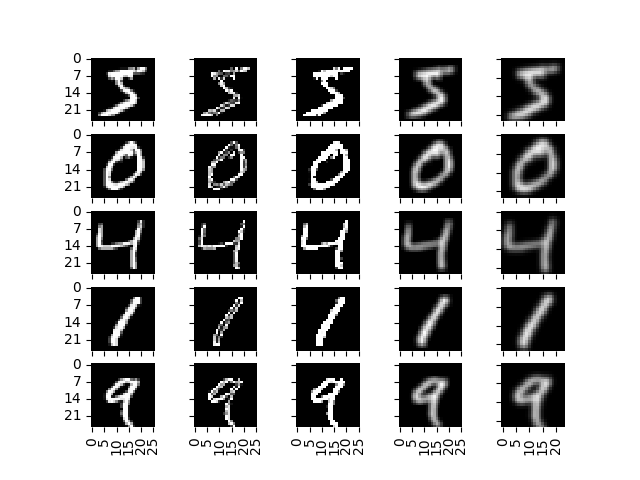
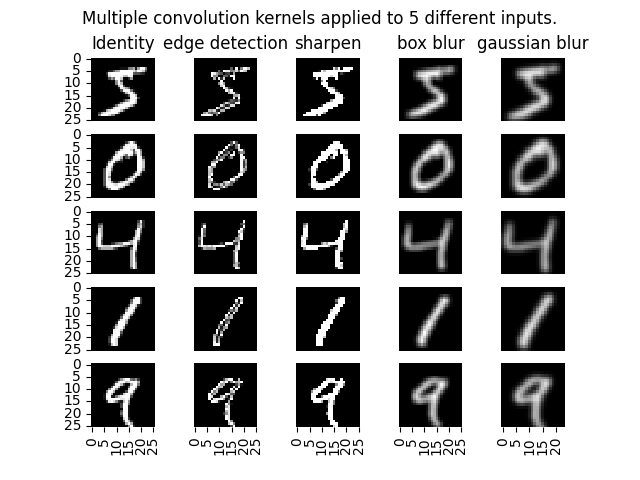
Some small tweeks

diff --git a/project_2/main.py b/project_2/main.py
@@ -4,7 +4,7 @@ import seaborn as sns
 import matplotlib.pyplot as plt
 import time
 
-from src.convolution import n_convolutions, n_3d_convolutions, rc
+from src.convolution import n_convolutions, n_3d_convolutions, rc, one_convolution
 from src.cnn import ConvNN, ConvLay
 
 # np.set_printoptions(suppress=True, linewidth=100000)
@@ -22,6 +22,7 @@ class Timer:
         return self.timings.__str__()
 
 def part_one(Xtrain):
+    kernel_names = ["Identity", "edge detection", "sharpen", "box blur", "gaussian blur"]
     kernels = [
         np.array([[0,0,0],[0,1,0],[0,0,0]]), # Identity
         np.array([[0,-1,0],[-1,4,-1],[0,-1,0]]), # Edge detection
@@ -31,27 +32,29 @@ def part_one(Xtrain):
     ]
     convolved_data = []
     for x in Xtrain:
-        convolved_data.extend(n_convolutions(x, kernels, method="roll"))
-    
+        convolved_data.extend([one_convolution(x, k, method="loop") for k in kernels])
     f, axs = plt.subplots(5, 5)
     for i, ax in enumerate(axs.flatten()):
         sns.heatmap(
             data=convolved_data[i],
             vmin=0, 
             vmax=256,
-            xticklabels=False, 
-            yticklabels=False,
+            xticklabels=(5 if i>=20 else False), 
+            yticklabels=(5 if i%5 == 0 else False),
             ax=ax,
             cmap="gray",
             cbar=False,
             square=True
         )
+        if i < 5:
+            ax.set_title(f"{kernel_names[i]}")
+    f.suptitle("Multiple convolution kernels applied to 5 different inputs.")
+    f.set_edgecolor("black")
     f.savefig("test.png")
 
 
 def batch_split(X, y, batch_size):
     random_shuffle = np.random.choice(X.shape[0], size=X.shape[0], replace=False)
-    # random_shuffle = np.arange(X.shape[0])
     for i in range(0, X.shape[0], batch_size):
         y_split = [y[i] for i in random_shuffle[i: i + batch_size]]
         yield X[random_shuffle[i: i + batch_size]], y_split
@@ -65,28 +68,28 @@ def mse_gradient(y_bars, ys):
     return 2 * (y_bars - ys)/y_bars.size 
 
 def part_two(Xtrain):
-    epochs = 5
-    normalize = 1
+    epochs = 1
+    normalize = 2
 
     if normalize == 2: # 01 normalize
-        alpha = 0.005 # alpha 0.05
-        batch_size = 100 # batch size 100, seems to converge fast
+        alpha = 0.3 # alpha 0.05
+        batch_size = 10 # batch size 100, seems to converge fast
 
         Xtrain_min = Xtrain.min()
         Xtrain_max = Xtrain.max()
         Xtrain = (Xtrain - Xtrain_min)/(Xtrain_max - Xtrain_min)
 
     elif normalize ==1: # std normalize
-        alpha = 0.003 # alpha 0.05
-        batch_size = 100 # batch size 100, seems to converge fast
+        alpha = 0.0002 # alpha 0.05
+        batch_size = 1000 # batch size 100, seems to converge fast
 
         Xtrain_mean = Xtrain.mean()
         Xtrain_std = np.std(Xtrain)
         Xtrain = (Xtrain - Xtrain_mean)/Xtrain_std
 
     else:
-        alpha = 0.0000005 # alpha 0.0000005
-        batch_size = 100 # batch size 100, seems to converge fast
+        alpha = 0.00000003 # alpha 0.0000005
+        batch_size = 1000 # batch size 100, seems to converge fast
     
     kernels = np.stack([
         np.array([[0,-1,0],[-1,4,-1],[0,-1,0]]), # Edge detection
@@ -95,29 +98,31 @@ def part_two(Xtrain):
     ])
     print("starting kernels")
     print(kernels)
+
     timer = Timer()
     y_conv = list(n_3d_convolutions(Xtrain, kernels))
 
     timer.time("y_conv")
-    conv_lay = ConvLay(kernel_shapes=[k.shape for k in kernels], alpha=alpha) #0.000000001
+    conv_lay = ConvLay(kernel_shapes=[k.shape for k in kernels], alpha=alpha, input_shape=Xtrain[0].shape) #0.000000001
     epoch = 0
 
     while epoch < epochs:
         for X_batch, y_batch in batch_split(Xtrain, y_conv, batch_size):
             y_bars = conv_lay.forward_propagations(X_batch) # Does not evaluate yet.
-            timer.time("forward")
+            # timer.time("forward")
             dL_dys = map(
                 mse_gradient,
                 y_bars, y_batch
                 ) # This creates an iterator, so it stays lazy
-            timer.time("dl_dy")
+            # timer.time("dl_dy")
             conv_lay.backward_propagations(dL_dys)
-            timer.time("backward")
-
+            # timer.time("backward")
+        timer.time("epoch")
         print(f"after epoch {epoch}")
         for k_b, k_r in zip(conv_lay.kernels, kernels):
             print(k_b)
             print("max error", np.max(np.abs(k_b - k_r)))
+        print("MSE", ((conv_lay.kernels - kernels)**2).mean())
         print()
         epoch += 1
 
@@ -184,7 +189,7 @@ def part_three(Xtrain, ytrain, Xtest, ytest):
 if __name__== "__main__":
     (Xtrain, ytrain), (Xtest,ytest) = tf.keras.datasets.mnist.load_data()
     # part_one(Xtrain[:5])
-    # part_two(Xtrain)
-    part_three(Xtrain, ytrain, Xtest, ytest)
-    print(rc)
+    part_two(Xtrain)
+    # part_three(Xtrain, ytrain, Xtest, ytest)
+    # print(rc)
     # print(Xtrain.shape)

diff --git a/project_2/src/cnn.py b/project_2/src/cnn.py
@@ -58,8 +58,11 @@ class ConvLay:
             ])
         else:
             dL_dx = 0
-
         self.kernels = self.kernels - self.alpha * weight_deltas
+
+        if np.abs(self.kernels).max() > 1e6:
+            raise RuntimeError("Diverging kernel")
+        
         if hasattr(self, "previous"):
             return self.previous.backward_propagations(dL_dx)
         else:
@@ -130,6 +133,9 @@ class MaxPool:
             "strides": self.strides,
         }
     
+    
+
+
 
 class SoftMax:
     def __init__(self, input_shape, output_length, alpha) -> None:
@@ -138,6 +144,7 @@ class SoftMax:
         self.alpa = alpha
         self.weights = np.random.rand(*(output_length, np.prod(input_shape)))
         self.biases = np.random.rand(output_length)
+        self.last = False
 
     def set_next_layer(self, layer):
         self.next = layer
@@ -148,10 +155,13 @@ class SoftMax:
 
     def forward_iterator(self, xs):
         self.last_inputs = []
+        self.last_res = []
         for x in xs:
             self.last_inputs.append(x)
             inp = np.exp(self.weights @ x.flatten() + self.biases)
             res = inp/inp.sum()
+            if not self.last:
+                self.last_res.append(res)
             yield res
 
     def forward_propagations(self, xs):
@@ -161,13 +171,12 @@ class SoftMax:
         else:
             return res
         
-    def backward_propagations(self, ys):
+    def backward_last(self, ys):
         dL_dw = np.zeros_like(self.weights)
         dL_db = np.zeros_like(self.biases)
         dL_dxs = []
         for y_bar, y in ys:
             inp = self.last_inputs.pop(0)
-            # A = (np.outer(-res, res) + np.diag(res)) @ dL_dy
             A = y_bar - y
             dL_dw += np.outer(A, inp.flatten())
             dL_db += A
@@ -180,6 +189,32 @@ class SoftMax:
             return self.previous.backward_propagations(dL_dxs)
         else:
             return dL_dxs
+
+    def backward_middle(self, dL_dys):
+        dL_dw = np.zeros_like(self.weights)
+        dL_db = np.zeros_like(self.biases)
+        dL_dxs = []
+        for dL_dy in dL_dys:
+            inp = self.last_inputs.pop(0)
+            res = self.last_res.pop(0)
+            A = (np.outer(-res, res) + np.diag(res)) @ dL_dy
+            dL_dw += np.outer(A, inp.flatten())
+            dL_db += A
+            dL_dxs.append((A @ self.weights).reshape(self.input_shape))
+
+        self.weights = self.weights - self.alpa * dL_dw
+        self.biases = self.biases - self.alpa * dL_db
+
+        if hasattr(self, "previous"):
+            return self.previous.backward_propagations(dL_dxs)
+        else:
+            return dL_dxs
+        
+    def backward_propagations(self, ys):
+        if self.last:
+            return self.backward_last(ys)
+        else:
+            return self.backward_middle(ys)
         
     def save_obj(self):
         return {
@@ -206,6 +241,8 @@ class ConvNN:
         
         for prev, next in pairwise(self.layers):
             prev.set_next_layer(next)
+
+        self.layers[-1].last = True
     
     def forward_propagations(self, xs):
         return self.layers[0].forward_propagations(xs)
